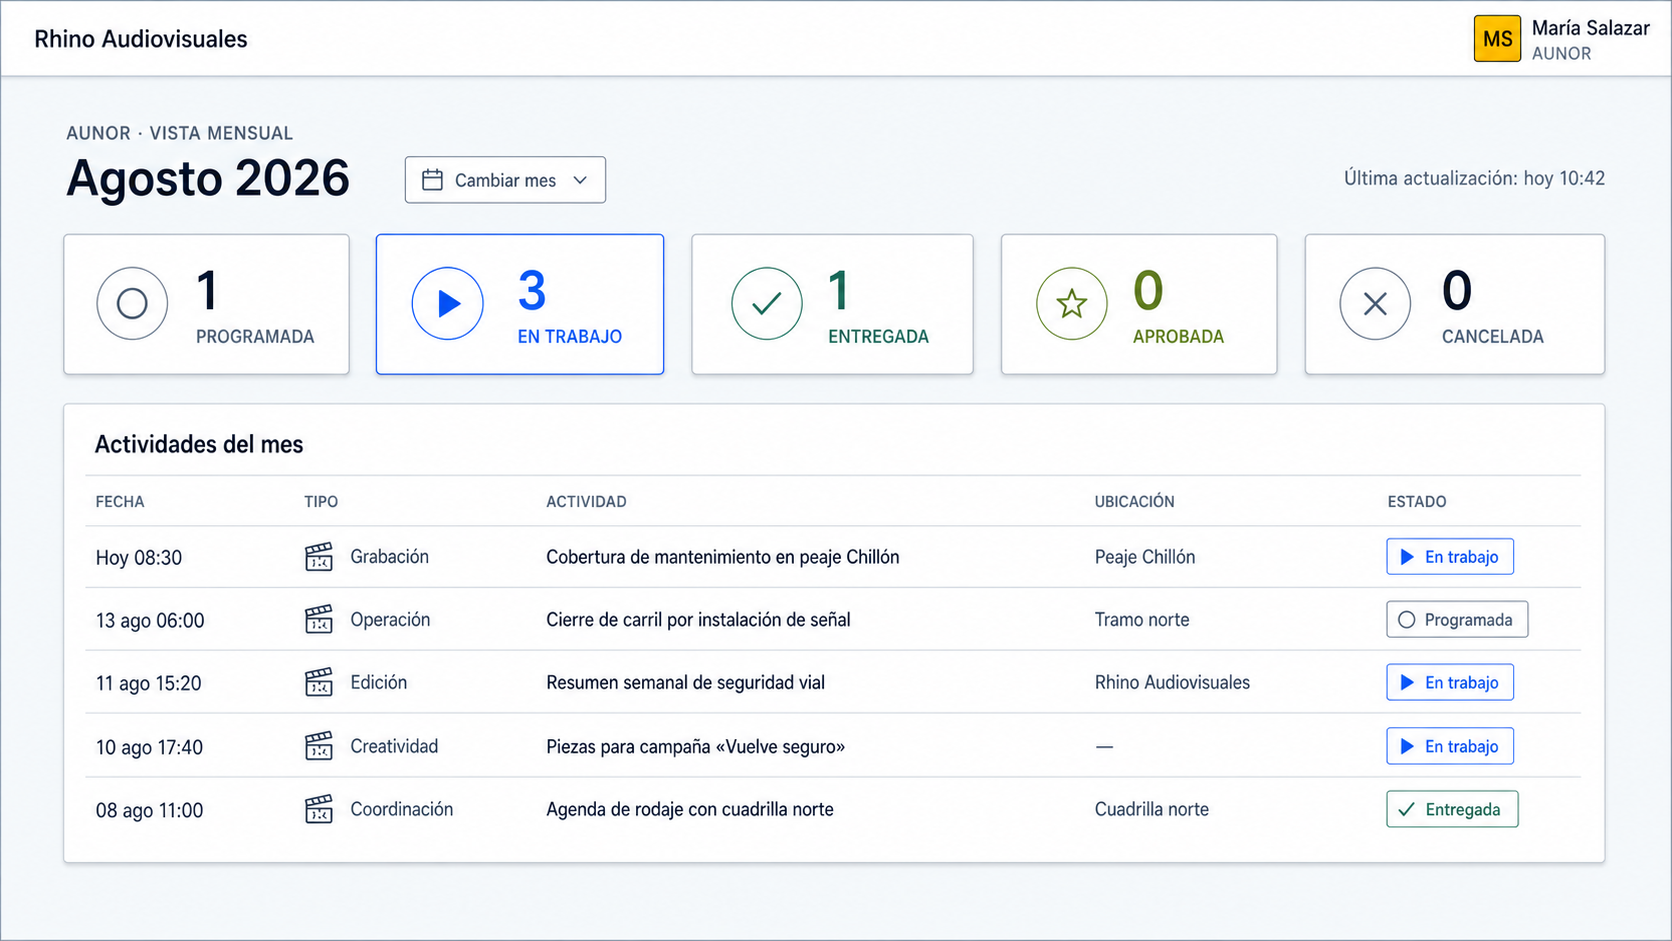
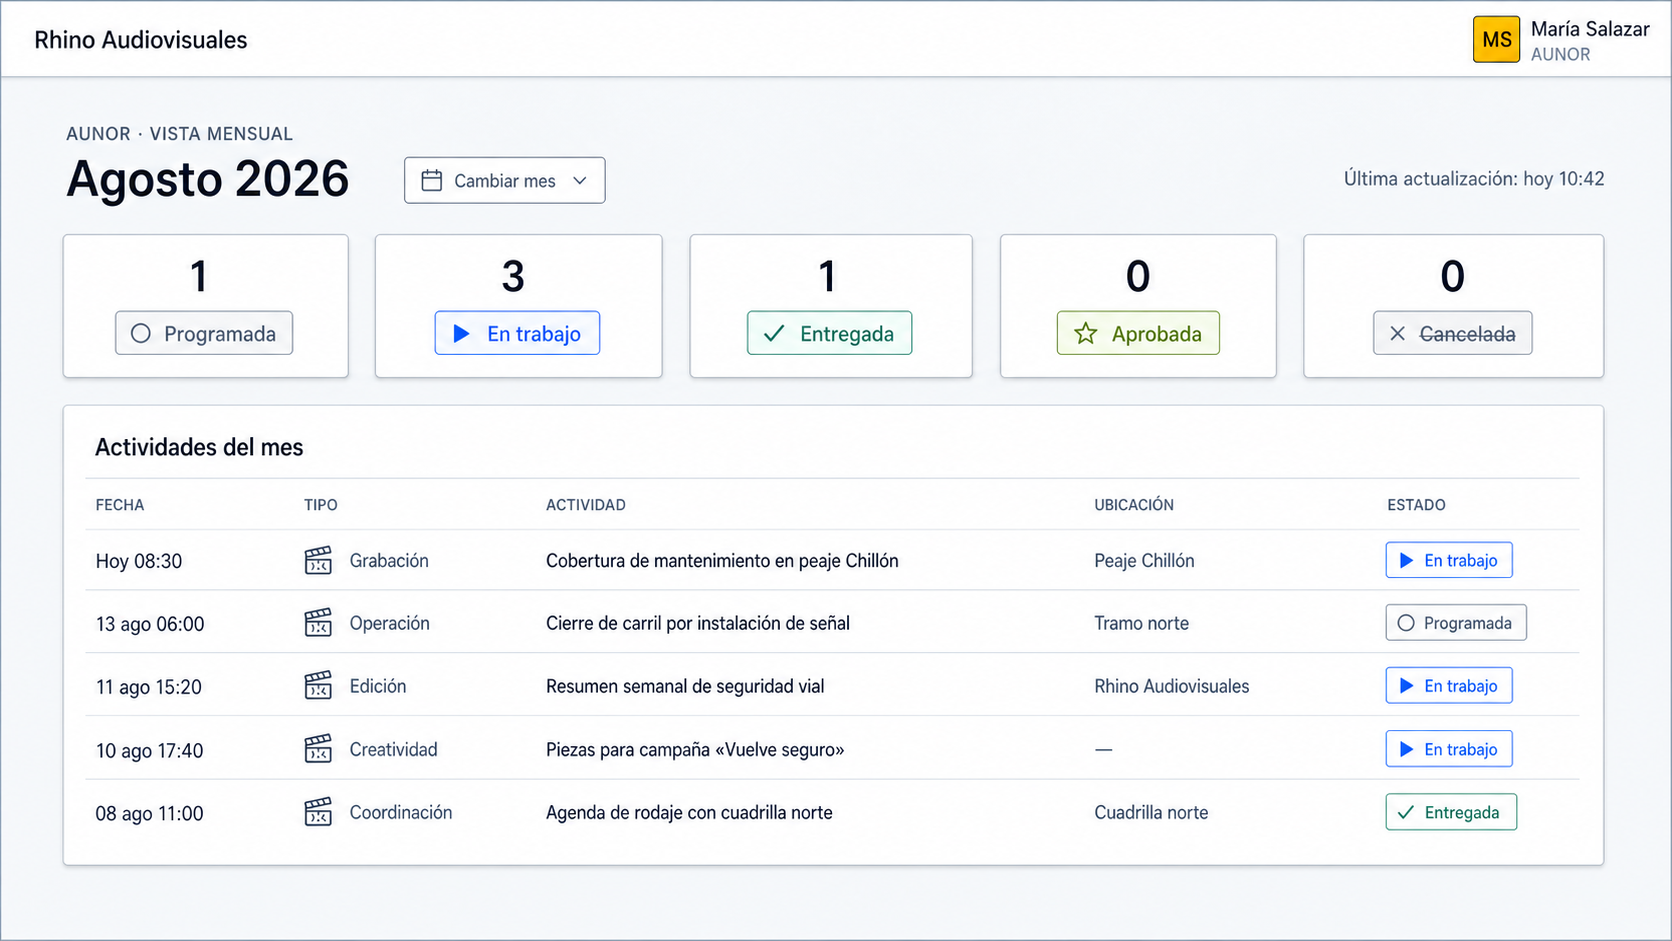
Fase 1: E-008, quince pantallas de escritorio, y cerrar los huecos del sistema
Quince PNG en diseno/escritorio-png/ sobre la direccion visual elegida y con el
sistema de diseno como entrada obligatoria.

Revisadas por Claude, no solo por el informe. El sistema funciono: las pantallas
comparten cabecera, avatar cuadrado ambar, barra lateral, sombra dura y las
mismas marcas de los siete estados. Es la diferencia con el bloque movil, que
salio sin sistema y quedo inconsistente.

Los tres controles que mas importaban estan bien:
- d-05 NO ofrece Aprobar sobre una actividad Observada
- d-09 no filtra nada interno a AUNOR y agrupa Observada dentro de "En trabajo"
- d-08 distingue el feedback del cliente de la observacion interna por color,
  etiqueta y acciones, con un aviso escrito en la propia pantalla

Codex reporto tres huecos reales del sistema de diseno, que resolvio localmente
al dibujar: la marca de "En trabajo" que ve AUNOR, los cinco estados propios de
Burson, y el tratamiento visual del feedback del cliente. Se incorporan a
docs/sistema-diseno.md como seccion 3 bis para que no vuelvan a improvisarse.

diff --git a/docs/sistema-diseno.md b/docs/sistema-diseno.md
@@ -78,6 +78,56 @@ Tiene que encontrarse sin buscarla — es la señal de «esto te está esperando
 
 ---
 
+## 3 bis. Las otras dos familias de estado, y el feedback del cliente
+
+Tres huecos que aparecieron al dibujar las pantallas de escritorio (E-008) y que el sistema no cubría.
+Se fijan aquí para que no vuelvan a improvisarse.
+
+### Lo que ve AUNOR: cinco grupos, no siete estados
+
+AUNOR **nunca ve los siete estados internos**. Ve cinco grupos, y esa es la razón de que exista la
+agrupación de `docs/fase-0-concepcion.md` §8:
+
+| AUNOR ve | Recoge los estados internos | Marca |
+|---|---|---|
+| Programada | Programada | círculo `○`, gris azulado |
+| **En trabajo** | En proceso · Por subir · **Observada** | triángulo `▶`, azul |
+| Entregada | Entregada | check `✓`, verde azulado |
+| Aprobada | Aprobada | estrella `★`, verde |
+| Cancelada | Cancelada | aspa `×`, gris, tachado |
+
+**«En trabajo» usa la marca de En proceso**, en azul. Que *Observada* se esconda ahí dentro es
+deliberado: AUNOR debe saber que algo sigue en curso, no que hubo una observación interna. **Nunca se
+dibuja la marca roja de Observada en una pantalla de AUNOR.**
+
+### Los cinco estados de Burson
+
+Burson tiene su **propia máquina de estados** (D-012) y no se mezcla con la de actividades. Se dibujan
+más compactos que los siete, para que nadie los confunda de un vistazo:
+
+**Solicitado · En proceso · Entregado · Aprobado · Cancelado**
+
+Usan la misma paleta pero **sin los signos** de los siete estados. En el tablero de Burson lo que manda
+visualmente no es el estado: son las columnas **pendientes de Rhino** y **pendientes de Burson**, que
+son el motivo de existir del módulo.
+
+### El feedback de AUNOR no se parece a una observación
+
+Son dos cosas distintas y **no pueden confundirse nunca** (D-033, D-041):
+
+| | Observación interna | Feedback de AUNOR |
+|---|---|---|
+| Color | **Rojo** `#c83b4d` | **Azul** `#155eef` |
+| Etiqueta | «Observación» con el nombre de quien la escribió | **«AUNOR · opinión del cliente»** |
+| ¿Cambia el estado? | Sí, la actividad pasa a Observada | **No** |
+| Acciones | Resolver | **Descartar · Responder · Convertir en observación interna** |
+
+En la bandeja de feedback va además **un aviso permanente**: *el feedback de AUNOR no cambia el estado
+de las actividades y no llega directo al colaborador*. Es la regla que sostiene que Rhino siga siendo
+quien controla a sus operarios, y conviene que esté escrita en la pantalla, no solo en un documento.
+
+---
+
 ## 4. Elementos que se repiten y no pueden cambiar entre pantallas
 
 | Elemento | Cómo es |
